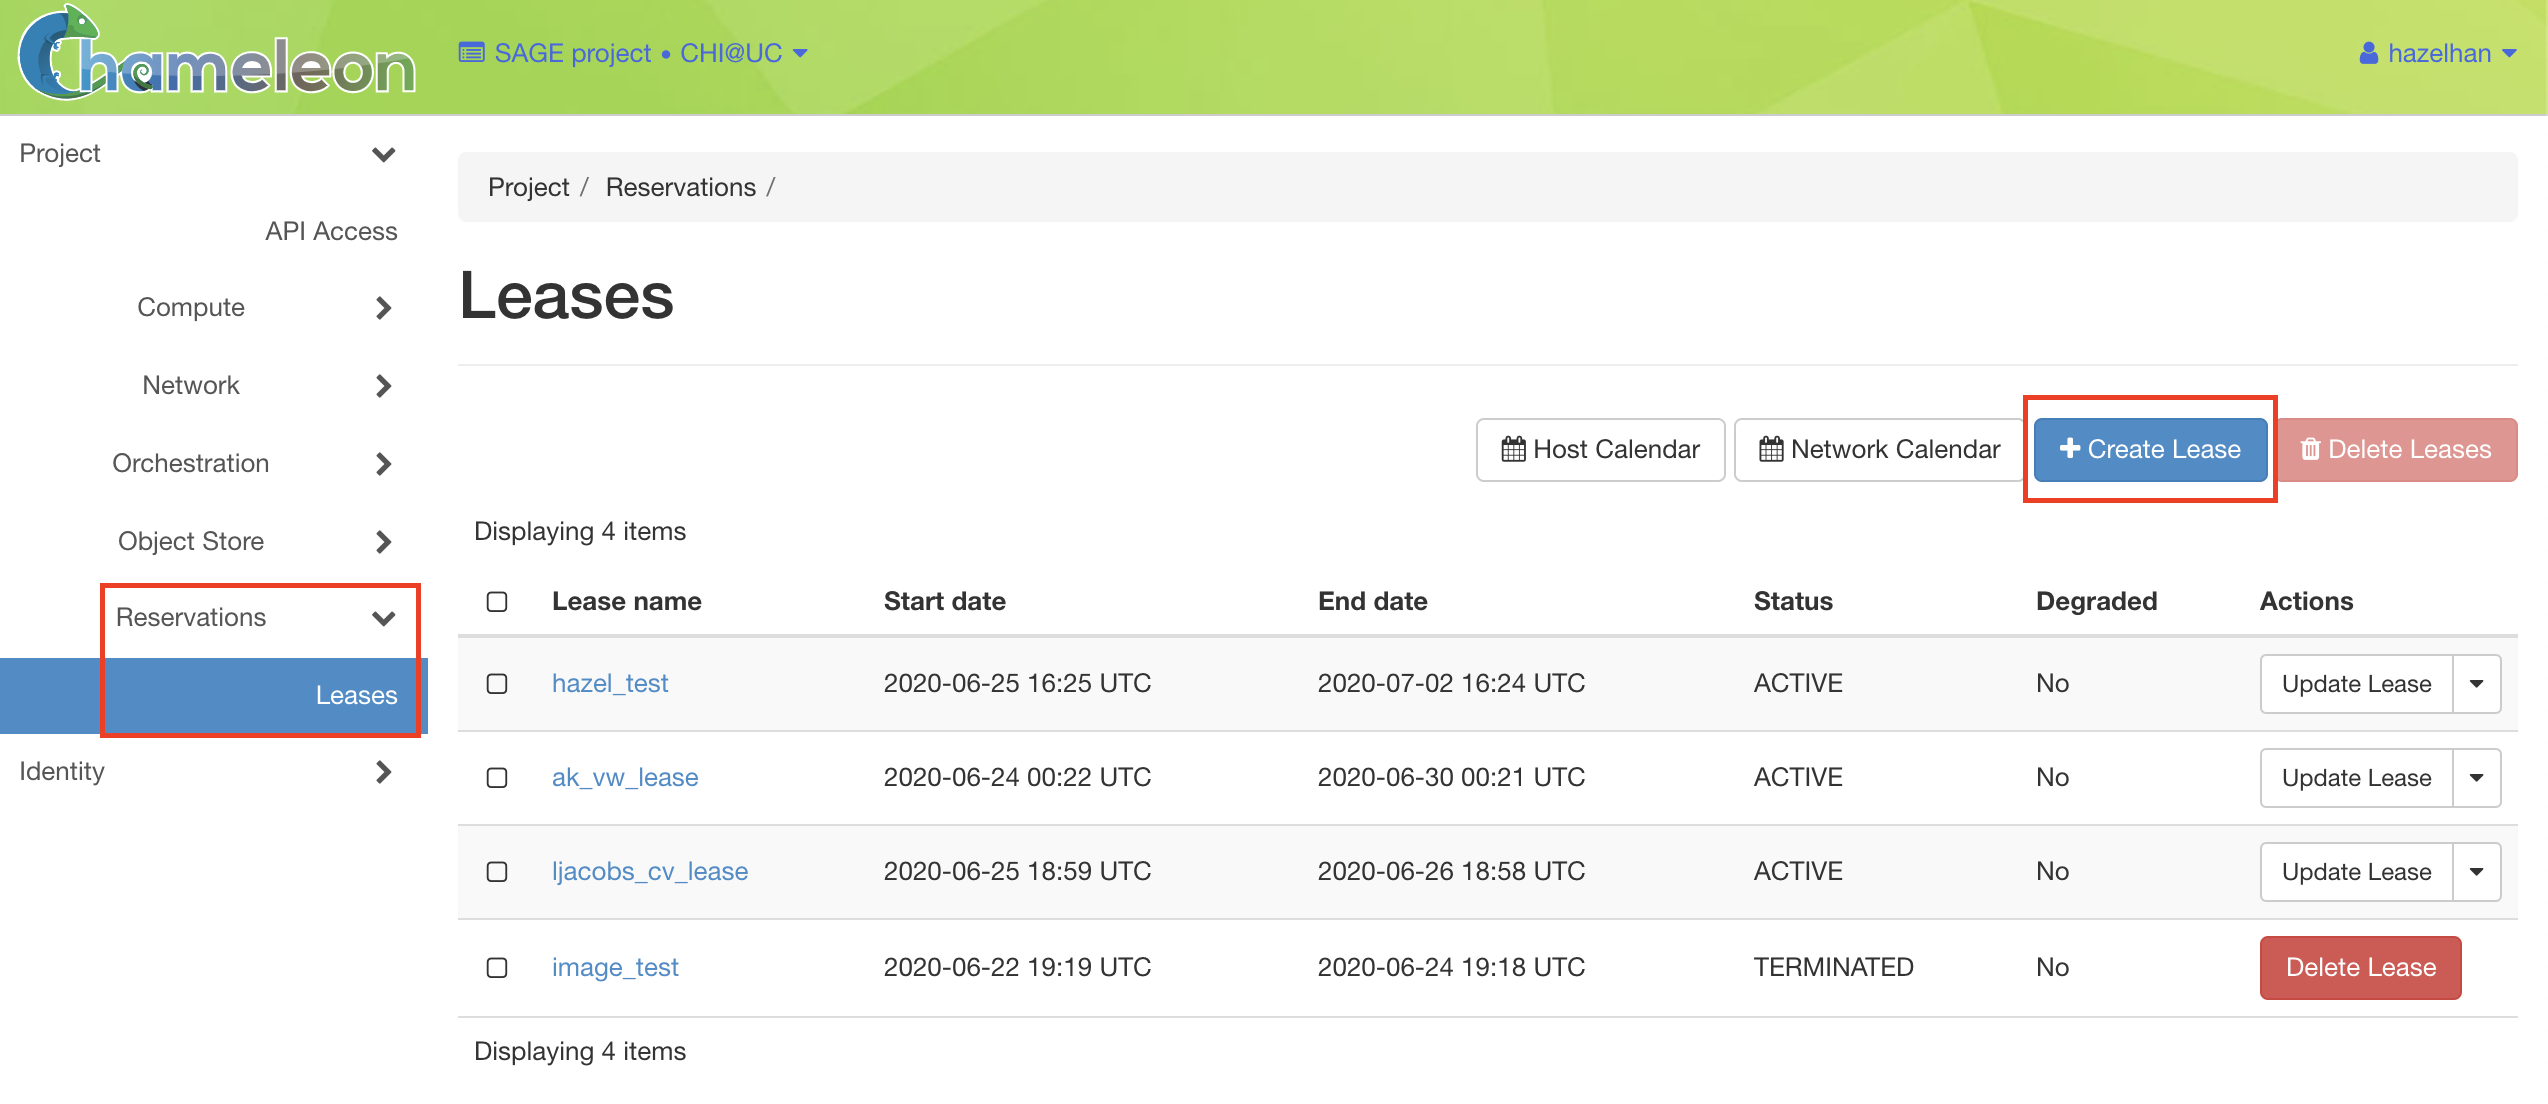
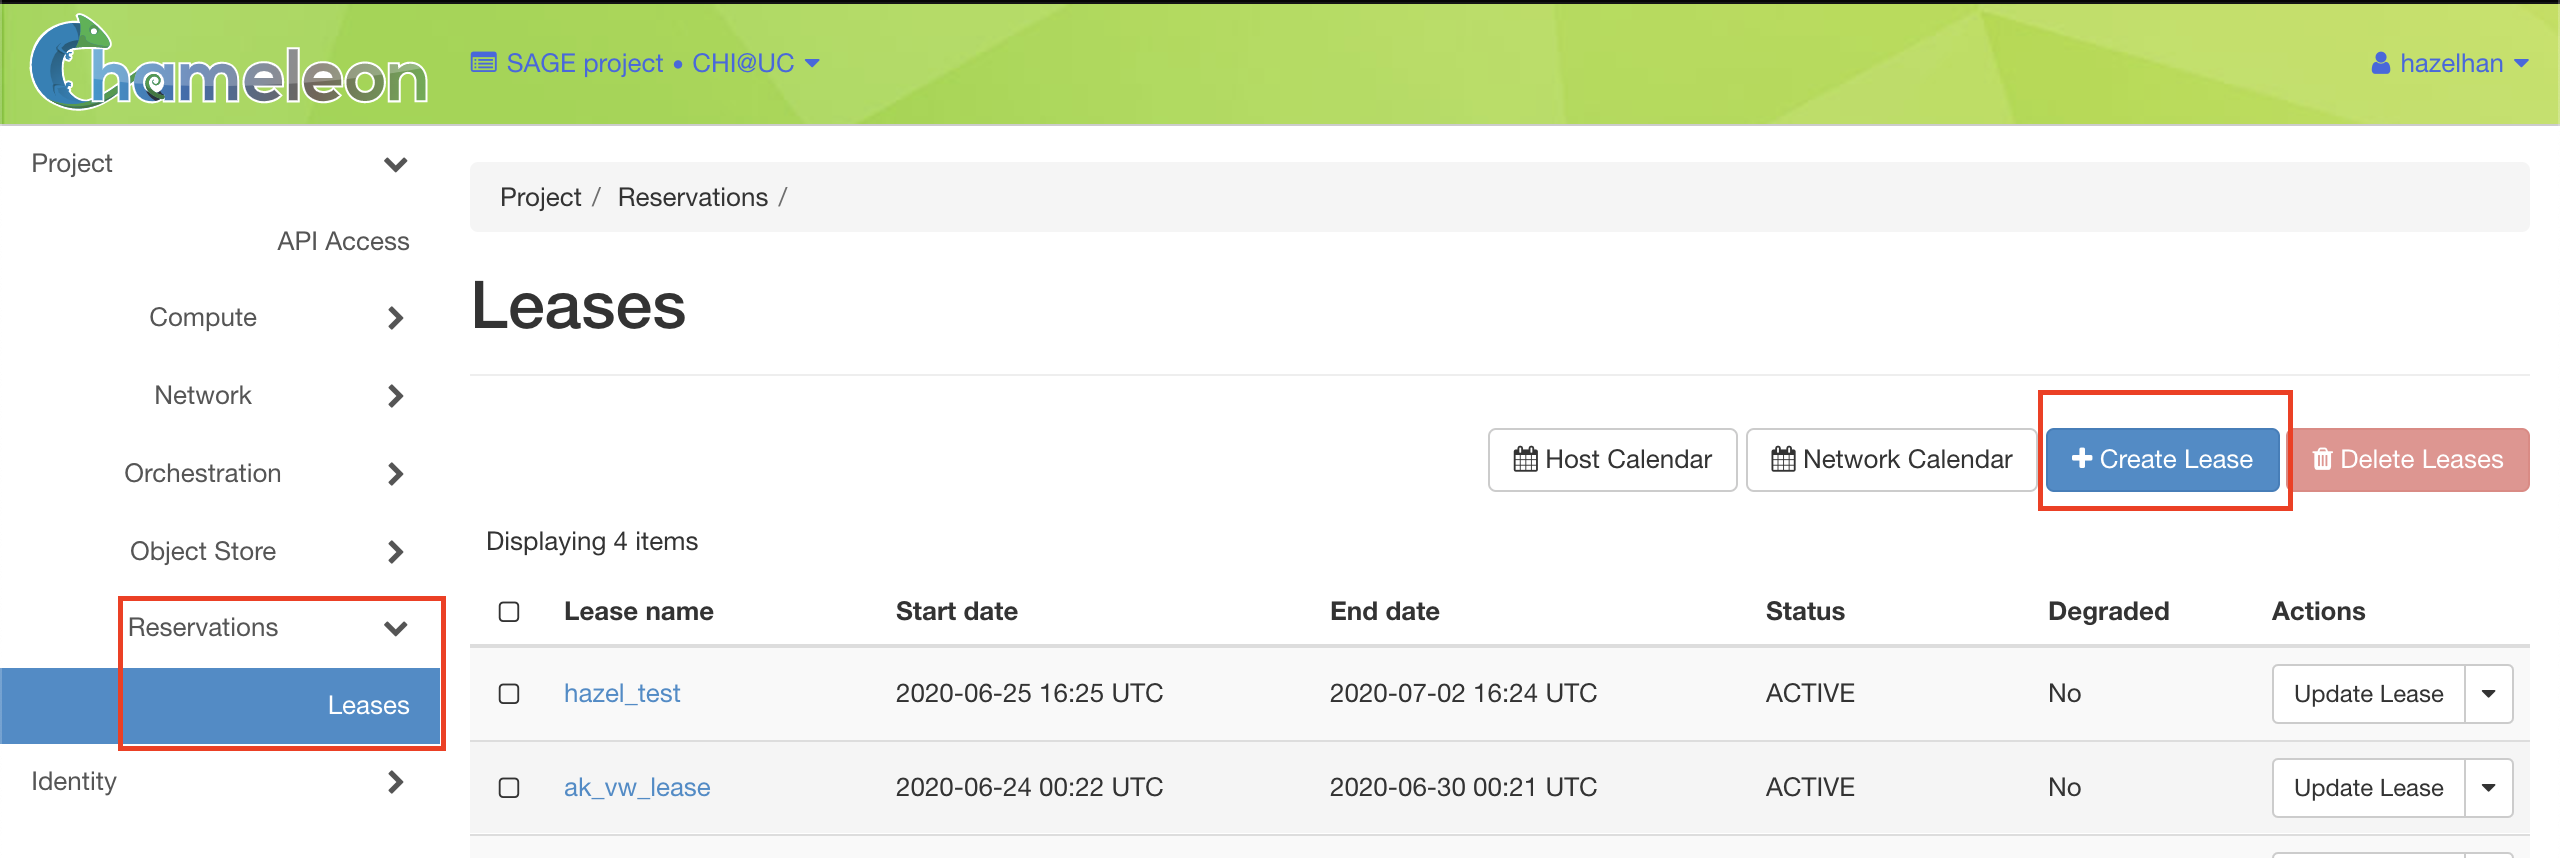
Create Chameleon Manual README

diff --git a/Han/Chameleon_Manual.md b/Han/Chameleon_Manual.md
@@ -1,0 +1,63 @@
+## How to use Chameleon
+
+This step-by-step instruction will guide you on how to use Chameleon. This document covers from creating Chameleon account to logging into Chameleon using Floating IP allocated to your instance. It also includes a number of screenshots to help you get on Chameleon as easy and fast as possible.
+For more detailed information, you can refer to https://chameleoncloud.readthedocs.io/
+If you would like to know how to use Chameleon with docker images, refer to https://github.com/sagecontinuum/chameleon-client/
+
+### Getting started
+
+Go to [ChameleonHome] https://www.chameleoncloud.org/ and sign up. Then, ask PI to get you added on the proper project.
+If you are added to the project, you will be able to access the Chameleon Dashboard.
+Clicking ```CHI@UC``` or ```CHI@TACC``` will lead you to the Dashboard.
+![dashboard](/images/dashboard.png)
+Go to the Dashboard and either Create a key pair or Import your SSH public key.
+If you have already generated your own SSH key pair, your public key could be found in ```~/.ssh/id_rsa.pub```.
+![sshkey](/images/sshkey.png)
+This key pair will be used when you attempt to run your docker image on Chameleon directly by using CLI.
+For more info on docker and Chameleon, please refer to https://github.com/sagecontinuum/chameleon-client/
+Otherwise, for native use of Chameleon, follow the instruction below.
+
+### Create an instance
+
+1. Reserve a Node
+Go to the Dashboard again and click *Lease* under *Reservation* from the sidebar. Click on *Create Lease* then the wizard will be loaded.
+![reserveNode](/images/reserveNode.png)
+Name your lease and decide the lease length. Maximum lease length is 7 days. 
+![reserveNode2](/images/reserveNode2.png)
+Then find *Resource Properties* section and choose proper property for your use. For AI/ML related uses, you might want to choose *node_type* = *gpu_rtx_6000*.
+Lastly, indicate the number of Floating IP addresses needed for your use.
+![reserveNode3](/images/reserveNode3.png)
+
+2. Launch an Instance
+Once your reservation gets ACTIVE, launch a bare-metal instance on the node you have reserved.
+Click *instances* under *Compute* from the sidebar, and click *Launch Instance*, then the wizard will be loaded.
+![instanceLaunch](/images/instanceLaunch.png)
+Name your instance and associate it with your node (reservation). 
+![instanceNode](/images/instanceNode.png)
+Then click *Source* in sidebar and choose OS image. If you want an image with CUDA installed, search for it. 
+![instanceImage](/images/instanceImage.png)
+For AI/ML related uses, ```CC-Ubuntu18.04-CUDA10``` is highly recommended.
+![instanceImage2](/images/instanceImage2.png)
+Then, click *Flavor* from the sidebar and check if it is correctly selected as *baremetal* flavor.
+![instanceFlavor](/images/instanceFlavor.png)
+Then, click *Key Pair* from the sidebar and either Create a Pair or Import a Pair. In my case, I just allocated the key the I have registered previously.
+![instancekey](/images/instancekey.png)
+If you have come so far, you now have basic configuration for your instance! 
+Press *Lauch Instance* button on the bottom.
+
+3. Associate Floating IP addresses
+Now you will be able to see your instance created as below.
+![instanceCreated](/images/instanceCreated.png)
+Next step you have to take is associating *Floating IP addresses* with your instance.
+Click *Floating IPs* under *Network* from the sidebar. Then you will see an IP address not associated with any other instances. Click the *Associate* button to allocate that IP address to your instance.
+![IpAssociate](/images/IpAssociate.png)
+Then the wizard will be loaded. Select your instance port for *Port to be associated*.
+![IpAssociate2](/images/IpAssociate2.png)
+Now if you go back to *instances* under *Compute* again, you will see your instance created there with the Floating IP you have allocated.
+![Done](/images/Done.png)
+
+### Accessing your instance
+Once your instance has launched with an associated Floating IP address.
+You can log in to your Chameleon instance via SSH using the **cc user account and your floating IP address**. 
+If your floating IP address was 192.5.87.31, you would use the command: ```ssh cc@192.5.87.31```.
+![sshLogin](/images/sshLogin.png)
